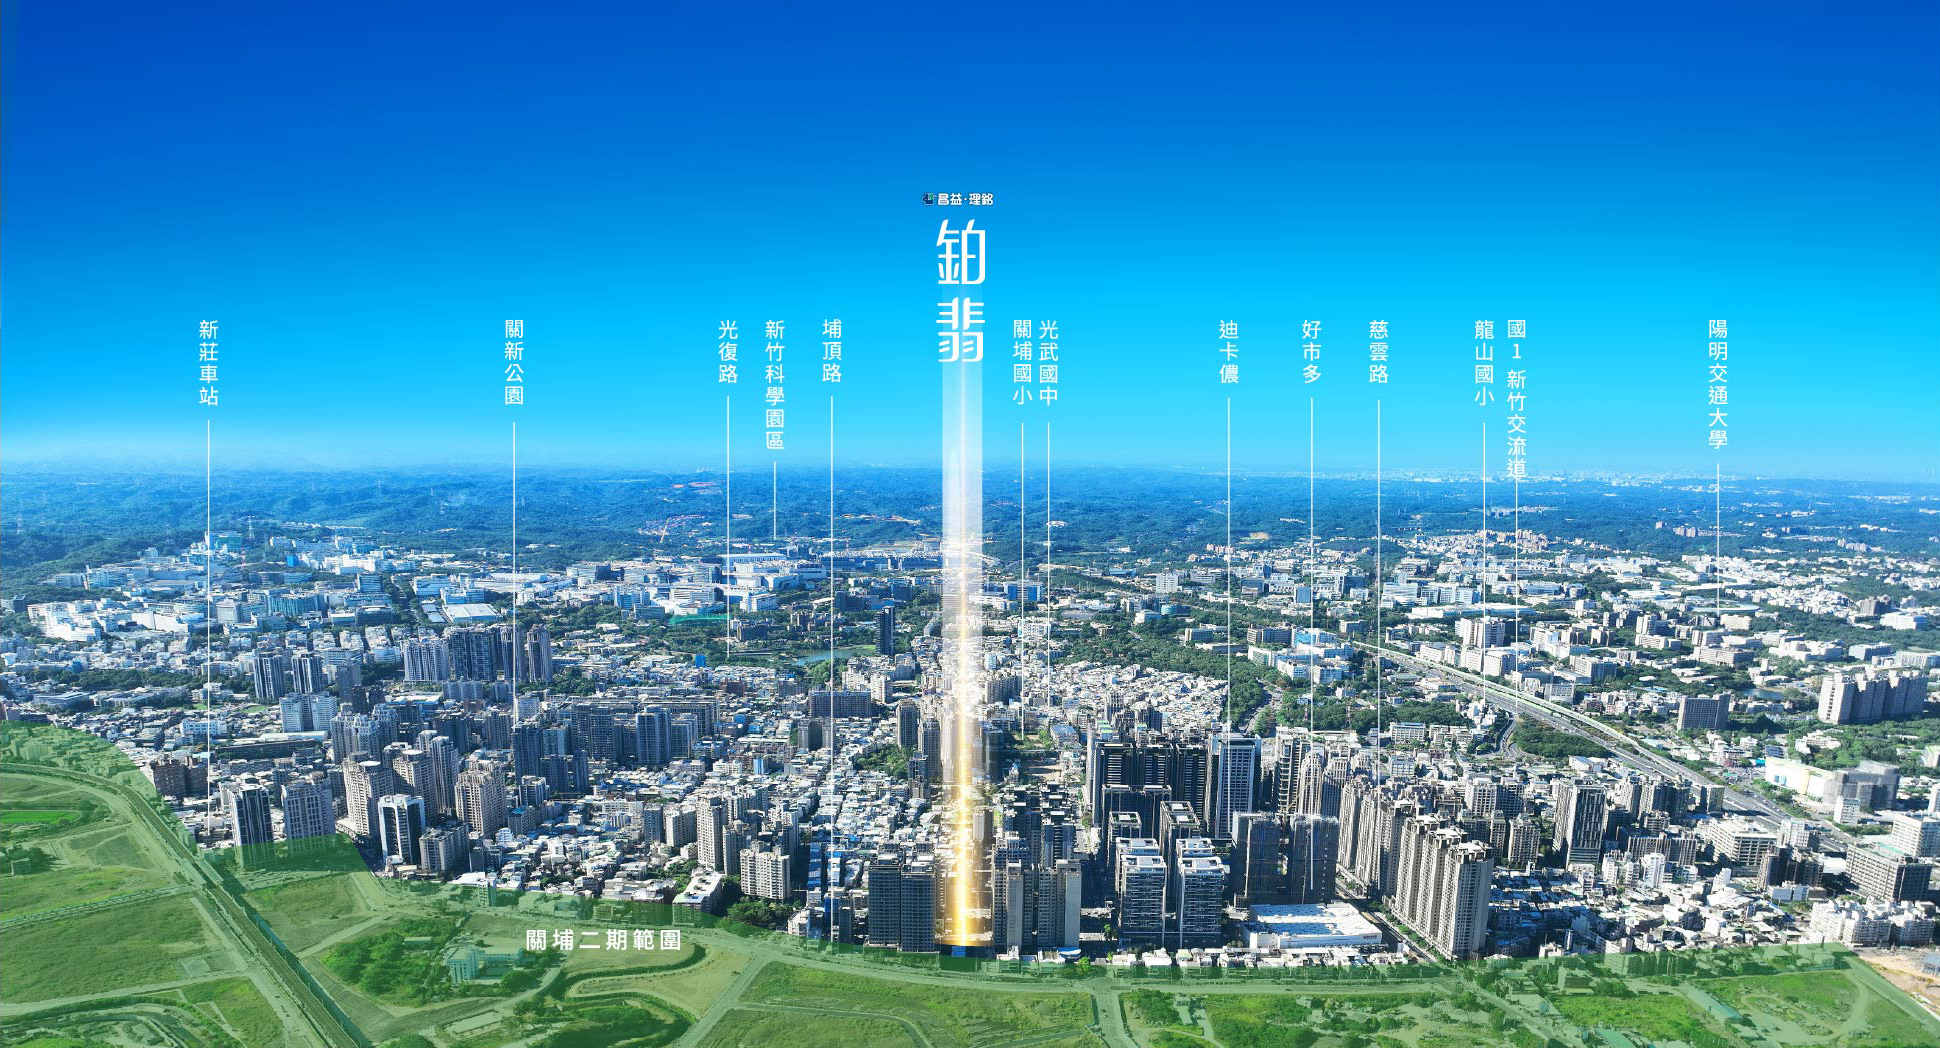
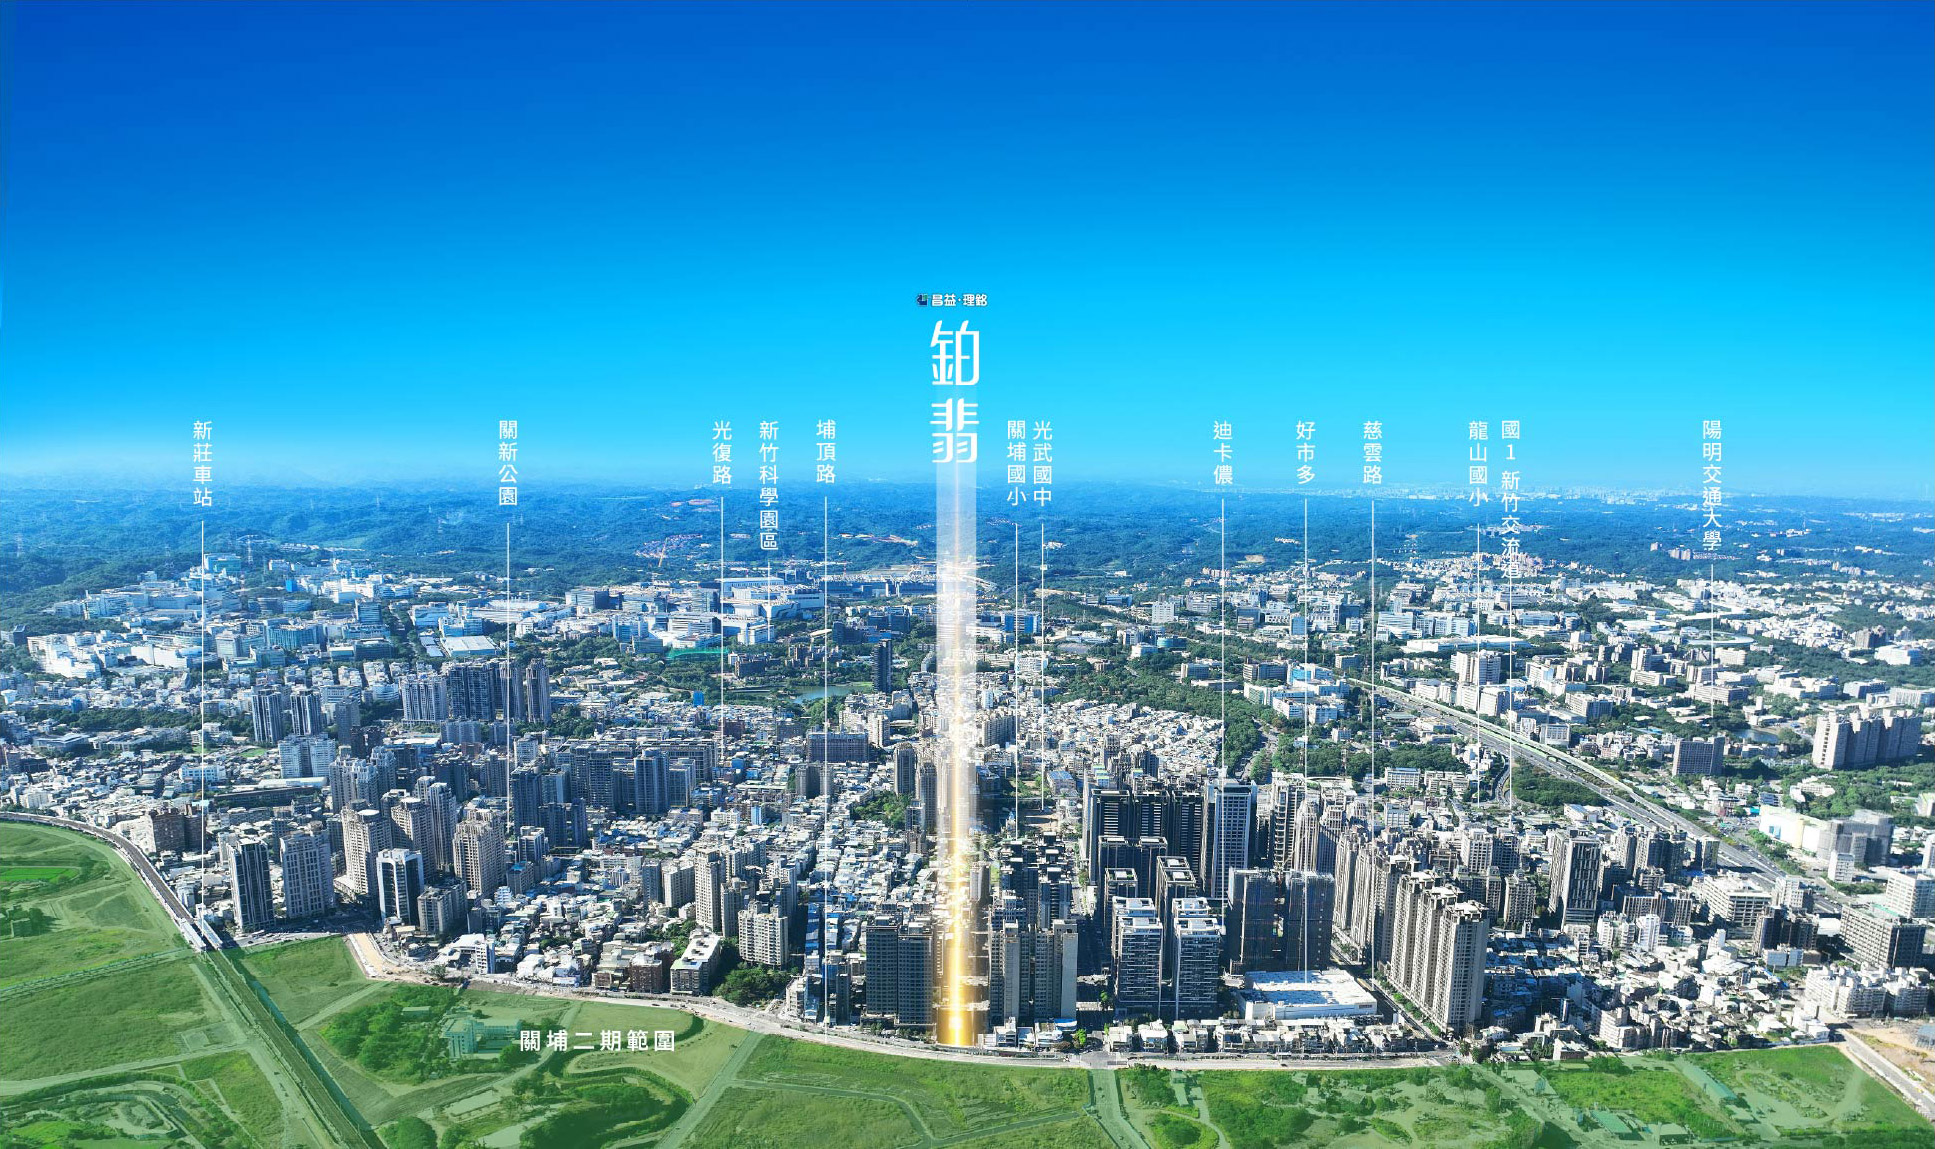
地圖頁修改 手機地圖 偏移量

diff --git a/src/section/s12.vue b/src/section/s12.vue
@@ -17,7 +17,6 @@
 .s12 {
   @apply relative overflow-hidden bg-[#008DD5];
   width: 100%;
-  height: size(1080);
   padding-top: 0;
   font-size: size(18);
 
@@ -44,9 +43,11 @@
 
       /* 水平線裝飾*/
       &::after,
-      &::before {
-      }
+      &::before {}
+
+
     }
+
 
     /* 水平線裝飾
     .desc {
@@ -54,15 +55,17 @@
       letter-spacing: .1em;
     } */
   }
-  
+
   .caption {
     position: absolute;
     bottom: .5em;
     left: .5em;
     font-size: sizem(12);
-  @media screen and (min-width: 768px) {
-    font-size: size(15);}
-    
+
+    @media screen and (min-width: 768px) {
+      font-size: size(15);
+    }
+
   }
 }
 
@@ -75,6 +78,7 @@
   .s12 {
     height: sizem(667);
     font-size: sizem(14);
+
 
     .txt {
       top: 4em;

diff --git a/src/components/fullview.vue b/src/components/fullview.vue
@@ -19,7 +19,7 @@
     >img {
         height: 100%;
         max-width: unset;
-   /*    background: url("@/section/s12/map.jpg") 50%;
+        /*    background: url("@/section/s12/map.jpg") 50%;
         background-size: 100% auto; */
     }
 
@@ -67,7 +67,7 @@ import { onMounted, ref, computed, getCurrentInstance } from 'vue';
 const viewbox = ref();
 const viewImg = ref();
 const swiped = ref(false);
-const offsetRatio = 1.15;
+const offsetRatio = 2;
 
 const globals = getCurrentInstance().appContext.config.globalProperties;
 const isMobile = computed(() => globals.$isMobile());
